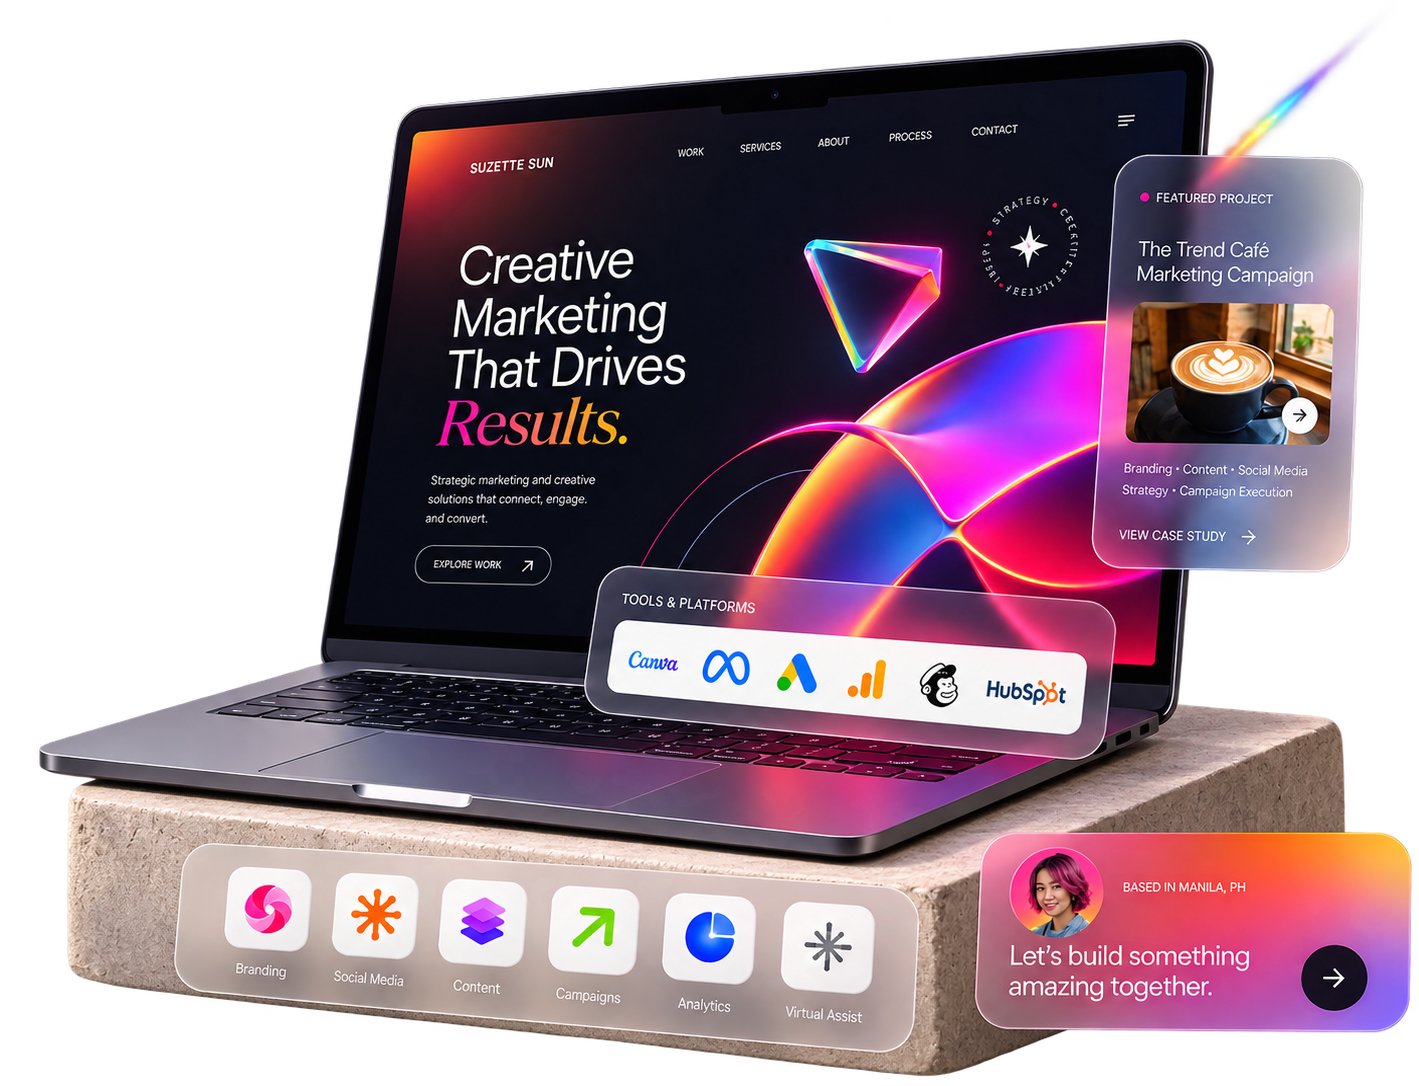
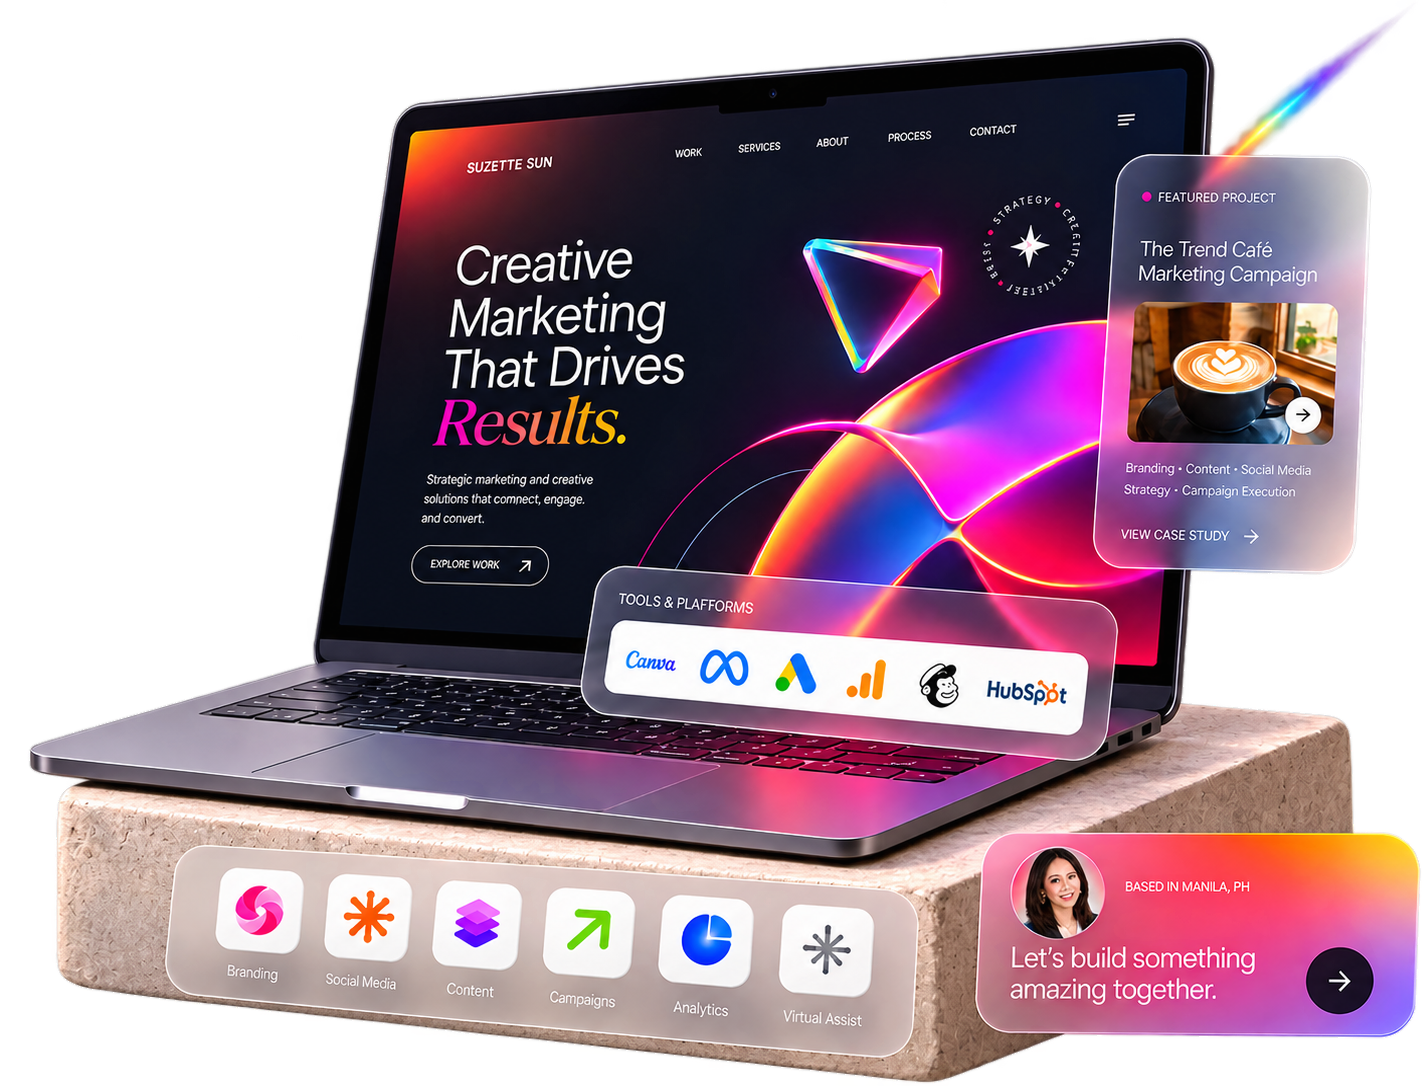
Swap hero scene to newhero2 with keyed transparency.
Process the updated laptop/plinth composition into hero-scene.webp, key the black canvas for the cream page, and retune responsive sizing around the new aspect.

diff --git a/src/components/hero/LaptopMockup.tsx b/src/components/hero/LaptopMockup.tsx
@@ -3,16 +3,16 @@
 import Image from "next/image";
 import { motion, type MotionStyle } from "motion/react";
 
-/** Full hero scene from newhero.png (laptop, plinth, floats baked in). */
+/** Full hero scene from newhero2.png (laptop, plinth, glass floats baked in). */
 const HERO = {
   src: "/assets/hero/hero-scene.webp",
-  width: 1419,
+  width: 1428,
   height: 1086,
 } as const;
 
 export function LaptopMockup({ style }: { style?: MotionStyle }) {
   return (
-    <div className="relative mx-auto w-full max-w-[720px] lg:max-w-none">
+    <div className="relative mx-auto w-full max-w-[640px] sm:max-w-[720px] lg:max-w-none">
       <motion.div
         style={{ perspective: "1800px", ...style }}
         className="relative [transform-style:preserve-3d]"
@@ -21,11 +21,11 @@ export function LaptopMockup({ style }: { style?: MotionStyle }) {
           src={HERO.src}
           width={HERO.width}
           height={HERO.height}
-          alt="Suzette Sun portfolio hero: laptop workspace with featured project, services, and contact card"
-          className="h-auto w-full max-w-none drop-shadow-[0_32px_64px_rgb(23_23_23/0.18)]"
+          alt="Suzette Sun portfolio hero: laptop workspace with featured project, tools, services, and contact card"
+          className="h-auto w-full max-w-none drop-shadow-[0_28px_56px_rgb(23_23_23/0.2)]"
           priority
           quality={100}
-          sizes="(max-width: 767px) 94vw, (max-width: 1279px) 58vw, 880px"
+          sizes="(max-width: 639px) 92vw, (max-width: 1023px) 720px, (max-width: 1279px) 58vw, 900px"
         />
       </motion.div>
     </div>

diff --git a/src/components/hero/Hero.tsx b/src/components/hero/Hero.tsx
@@ -33,7 +33,7 @@ const heroChips = [
   { name: "Virtual Assistance", color: "blue" },
 ] as const;
 
-/** Cream copy left; newhero.png scene right (no duplicate floats — baked into asset). */
+/** Cream copy left; newhero2.png scene right (floats baked into asset). */
 export function Hero() {
   const reduce = usePrefersReducedMotion();
   const mounted = useMounted();
@@ -174,7 +174,7 @@ export function Hero() {
               initial={motionOn ? { opacity: 0, y: 20, scale: 0.98 } : false}
               animate={motionOn ? { opacity: 1, y: 0, scale: 1 } : false}
               transition={{ duration: 0.6, delay: 0.1, ease: EASE }}
-              className="relative mx-auto w-full lg:ml-auto lg:mr-[-4%] lg:w-[106%] xl:mr-[-6%] xl:w-[108%] 2xl:mr-[-4%] 2xl:w-[104%]"
+              className="relative mx-auto w-full max-w-[640px] sm:max-w-none lg:ml-auto lg:mr-[-2%] lg:w-[104%] xl:mr-[-4%] xl:w-[106%] 2xl:mr-[-2%] 2xl:w-[102%]"
             >
               <LaptopMockup
                 style={motionOn ? { rotateX: sceneRotateX, rotateY: sceneRotateY } : undefined}

diff --git a/scripts/build_assets.py b/scripts/build_assets.py
@@ -89,26 +89,60 @@ ICONS = {
 
 
 def process_hero_asset():
-    """Full hero scene — prefer newhero.png, fall back to heroasset.png."""
-    src = os.path.join(ROOT, "newhero.png")
-    if not os.path.isfile(src):
-        src = os.path.join(ROOT, "heroasset.png")
-    if not os.path.isfile(src):
-        print("hero asset missing newhero.png / heroasset.png")
+    """Full hero scene — prefer .analysis/newhero2.png, then newhero.png, then heroasset.png."""
+    candidates = [
+        os.path.join(ROOT, ".analysis", "newhero2.png"),
+        os.path.join(ROOT, "newhero.png"),
+        os.path.join(ROOT, "heroasset.png"),
+    ]
+    src = next((p for p in candidates if os.path.isfile(p)), None)
+    if not src:
+        print("hero asset missing newhero2.png / newhero.png / heroasset.png")
         return
     img = Image.open(src).convert("RGBA")
-    if os.path.basename(src).lower() == "heroasset.png":
+    name = os.path.basename(src).lower()
+    # Key near-black canvas so the scene sits on the cream page
+    if name in ("newhero2.png", "heroasset.png") or "newhero" in name:
+        from collections import deque
+
         px = img.load()
         w, h = img.size
-        for y in range(h):
-            for x in range(w):
-                r, g, b, a = px[x, y]
-                if r < 34 and g < 34 and b < 34:
-                    px[x, y] = (r, g, b, 0)
-        img.putalpha(img.getchannel("A").filter(ImageFilter.GaussianBlur(0.7)))
+        thresh = 28 if "newhero2" in name else 34
+
+        def is_bg(x, y):
+            r, g, b, a = px[x, y]
+            return a > 0 and r <= thresh and g <= thresh and b <= thresh
+
+        seen = [[False] * w for _ in range(h)]
+        q = deque()
+        seeds = [(0, 0), (w - 1, 0), (0, h - 1), (w - 1, h - 1)]
+        step_x = max(1, w // 50)
+        step_y = max(1, h // 50)
+        for x in range(0, w, step_x):
+            seeds.extend([(x, 0), (x, h - 1)])
+        for y in range(0, h, step_y):
+            seeds.extend([(0, y), (w - 1, y)])
+        for x, y in seeds:
+            if 0 <= x < w and 0 <= y < h and not seen[y][x] and is_bg(x, y):
+                q.append((x, y))
+                seen[y][x] = True
+        while q:
+            x, y = q.popleft()
+            r, g, b, a = px[x, y]
+            px[x, y] = (r, g, b, 0)
+            for nx, ny in ((x - 1, y), (x + 1, y), (x, y - 1), (x, y + 1)):
+                if 0 <= nx < w and 0 <= ny < h and not seen[ny][nx] and is_bg(nx, ny):
+                    seen[ny][nx] = True
+                    q.append((nx, ny))
+        img.putalpha(img.getchannel("A").filter(ImageFilter.GaussianBlur(0.6)))
     bbox = img.getbbox()
     if bbox:
-        img = img.crop(bbox)
+        pad = 4
+        left = max(0, bbox[0] - pad)
+        top = max(0, bbox[1] - pad)
+        right = min(img.width, bbox[2] + pad)
+        bottom = min(img.height, bbox[3] + pad)
+        img = img.crop((left, top, right, bottom))
     dest = out_path("hero", "hero-scene.webp")
     img.save(dest, "WEBP", lossless=True, quality=100, method=6)
     rel = "/" + os.path.relpath(dest, os.path.join(ROOT, "public")).replace("\\", "/")
@@ -121,7 +155,7 @@ def process_hero_asset():
             "height": img.height,
         }
     )
-    print("hero", "hero-scene.webp", img.width, "x", img.height)
+    print("hero", os.path.basename(src), "->", "hero-scene.webp", img.width, "x", img.height)
 
 
 def process_logos():
